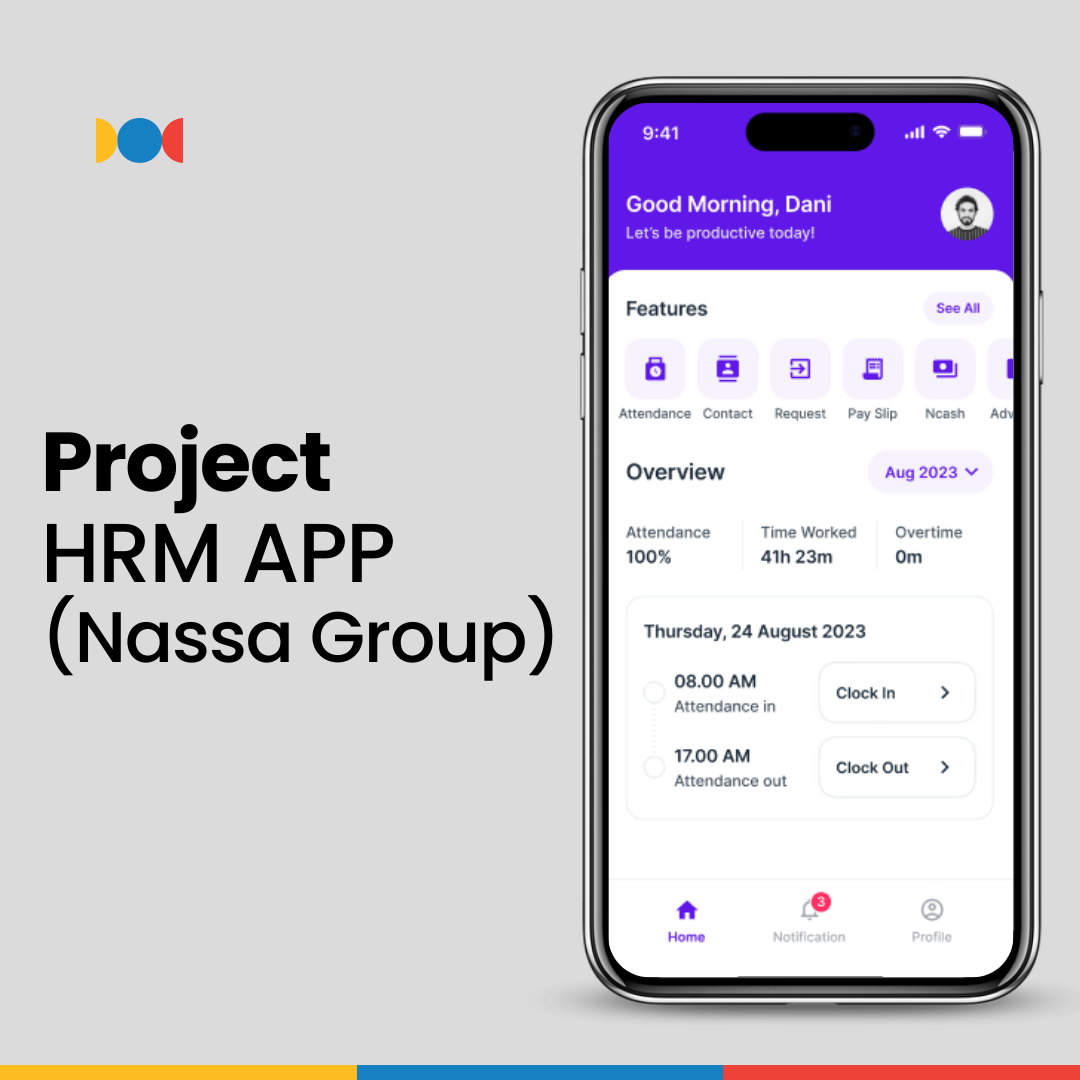
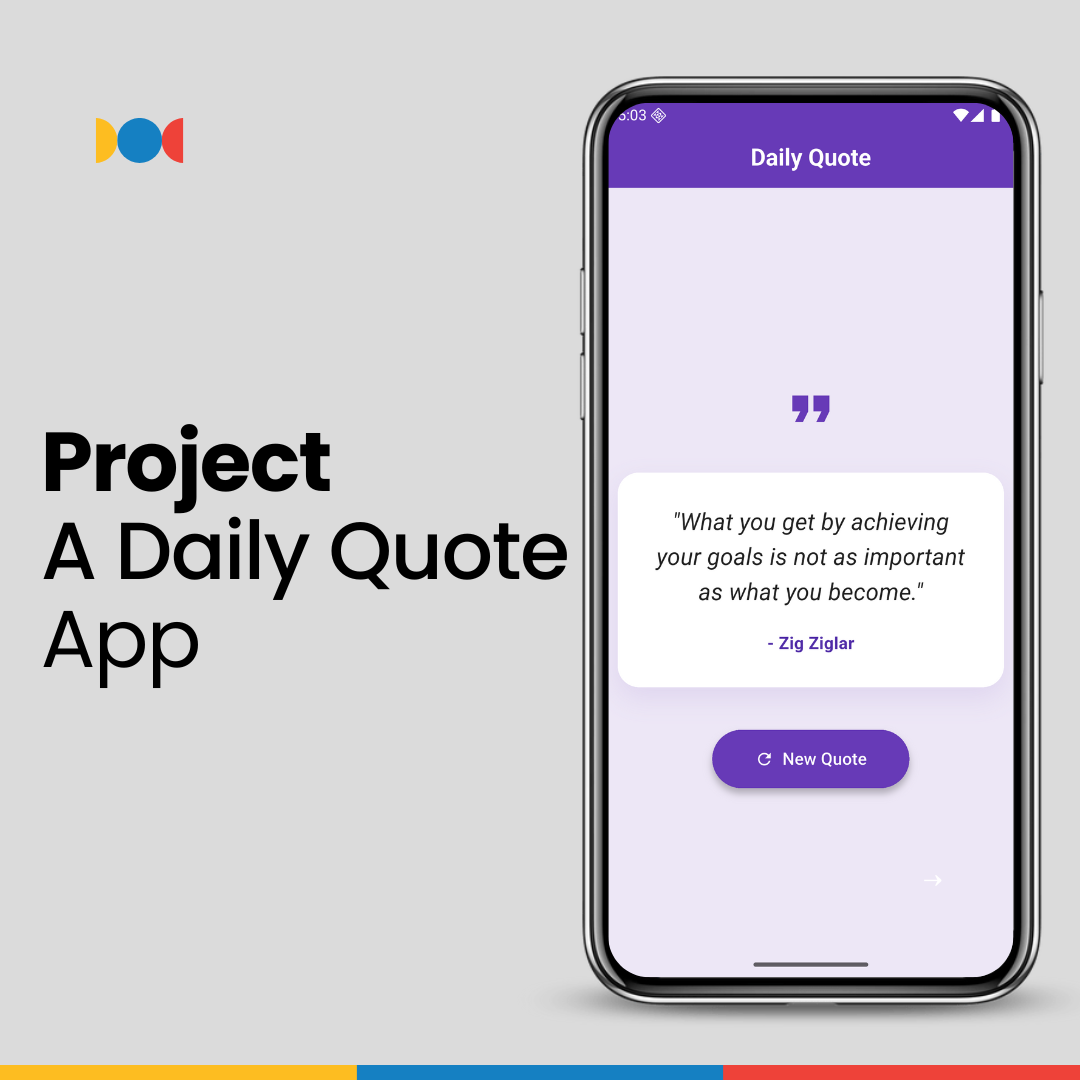
update

diff --git a/index.html b/index.html
@@ -376,7 +376,7 @@
                   <h4>App 1</h4>
                   <p>App DartQuest</p>
                   <a href="assets/img/portfolio/app-01.jpg" title="App 1" data-gallery="portfolio-gallery-app" class="glightbox preview-link"><i class="bi bi-zoom-in"></i></a>
-                  <a href="https://github.com/mahafujerrahman" title="More Details" class="details-link"><i class="bi bi-link-45deg"></i></a>
+                  <a href="https://play.google.com/store/apps/details?id=com.mahafujer.learn_dart_application" title="More Details" class="details-link"><i class="bi bi-link-45deg"></i></a>
                 </div>
               </div>
             </div>
@@ -387,9 +387,9 @@
                 <img src="assets/img/portfolio/app-001.jpg" class="project-img" alt="">
                 <div class="portfolio-info">
                   <h4>App 2</h4>
-                  <p>App DartQuest 2</p>
+                  <p>A Daily Quote</p>
                   <a href="assets/img/portfolio/app-001.jpg" title="App 1" data-gallery="portfolio-gallery-app" class="glightbox preview-link"><i class="bi bi-zoom-in"></i></a>
-                  <a href="https://github.com/mahafujerrahman" title="More Details" class="details-link"><i class="bi bi-link-45deg"></i></a>
+                  <a href="https://play.google.com/store/apps/details?id=com.mahafujer.dailyquote" title="More Details" class="details-link"><i class="bi bi-link-45deg"></i></a>
                 </div>
               </div>
             </div>